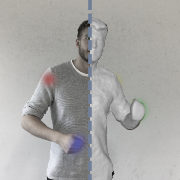
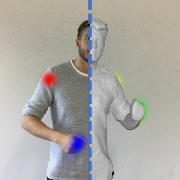
Added animation for deepdeform thumbnail

diff --git a/index.html b/index.html
@@ -226,8 +226,15 @@
                   <div class="one">
                     <a target="_blank" href="http://niessnerlab.org/projects/bozic2020deepdeform.html">
                       <div class="two" id="deepdeform_image" style="opacity: 0;">
-                        <img src="main_page/images/bozic2020deepdeform.png" width="160">
+                        <video width="100%" height="100%" muted="" autoplay="" loop="">
+                          <source src="main_page/images/bozic2020deepdeform.mp4" type="video/mp4">
+                          Your browser does not support the video tag.
+                        </video>
                       </div>
+
+                      <!-- <div class="two" id="deepdeform_image" style="opacity: 0;">
+                        <img src="main_page/images/bozic2020deepdeform.png" width="160">
+                      </div> -->
                       <img src="main_page/images/bozic2020deepdeform_before.png" width="160">
                     </a>
                   </div>
